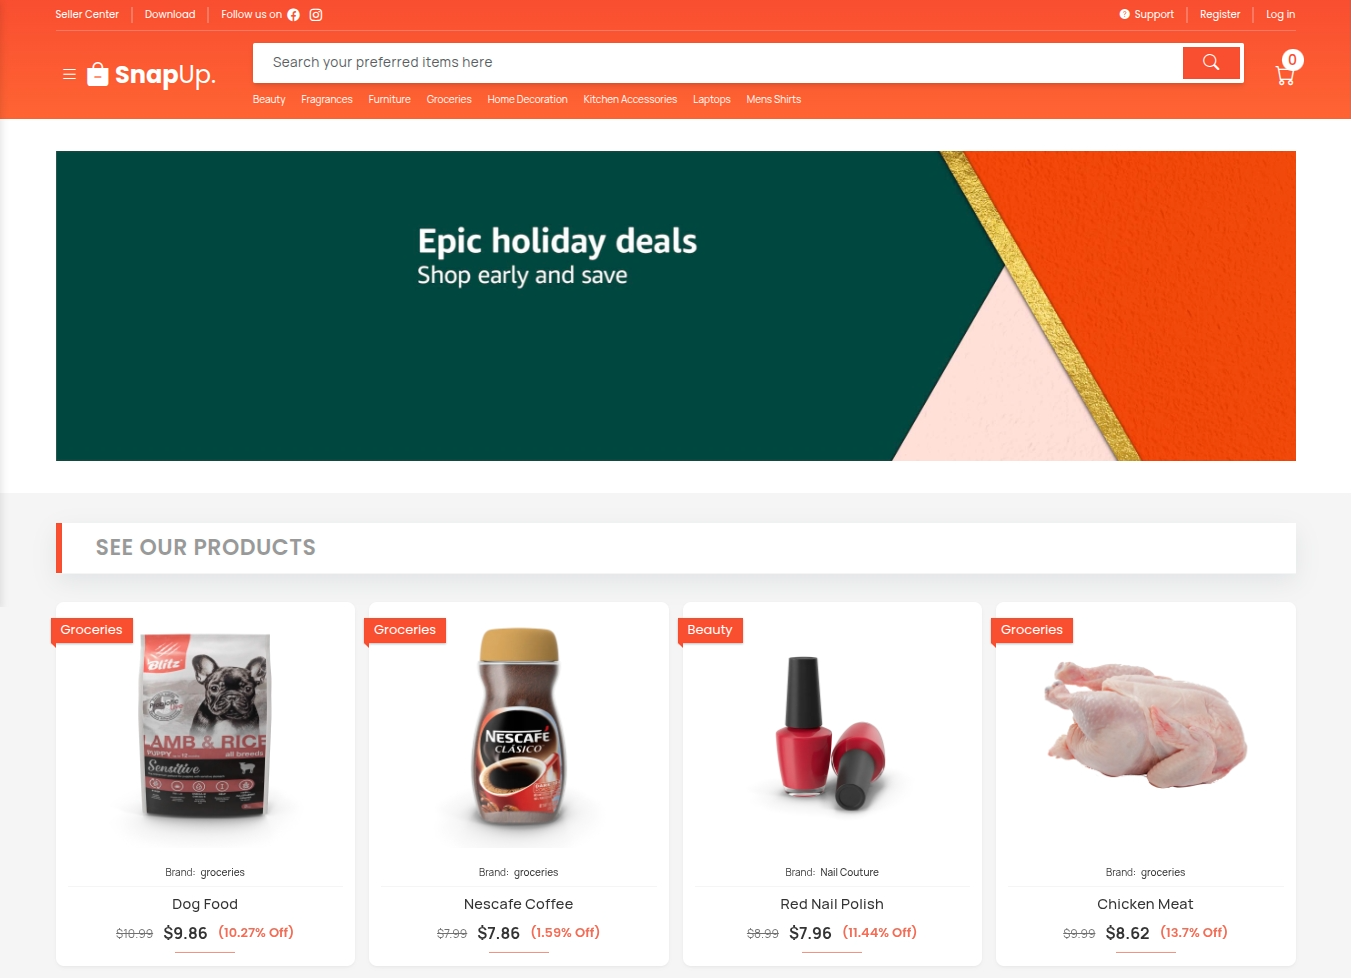
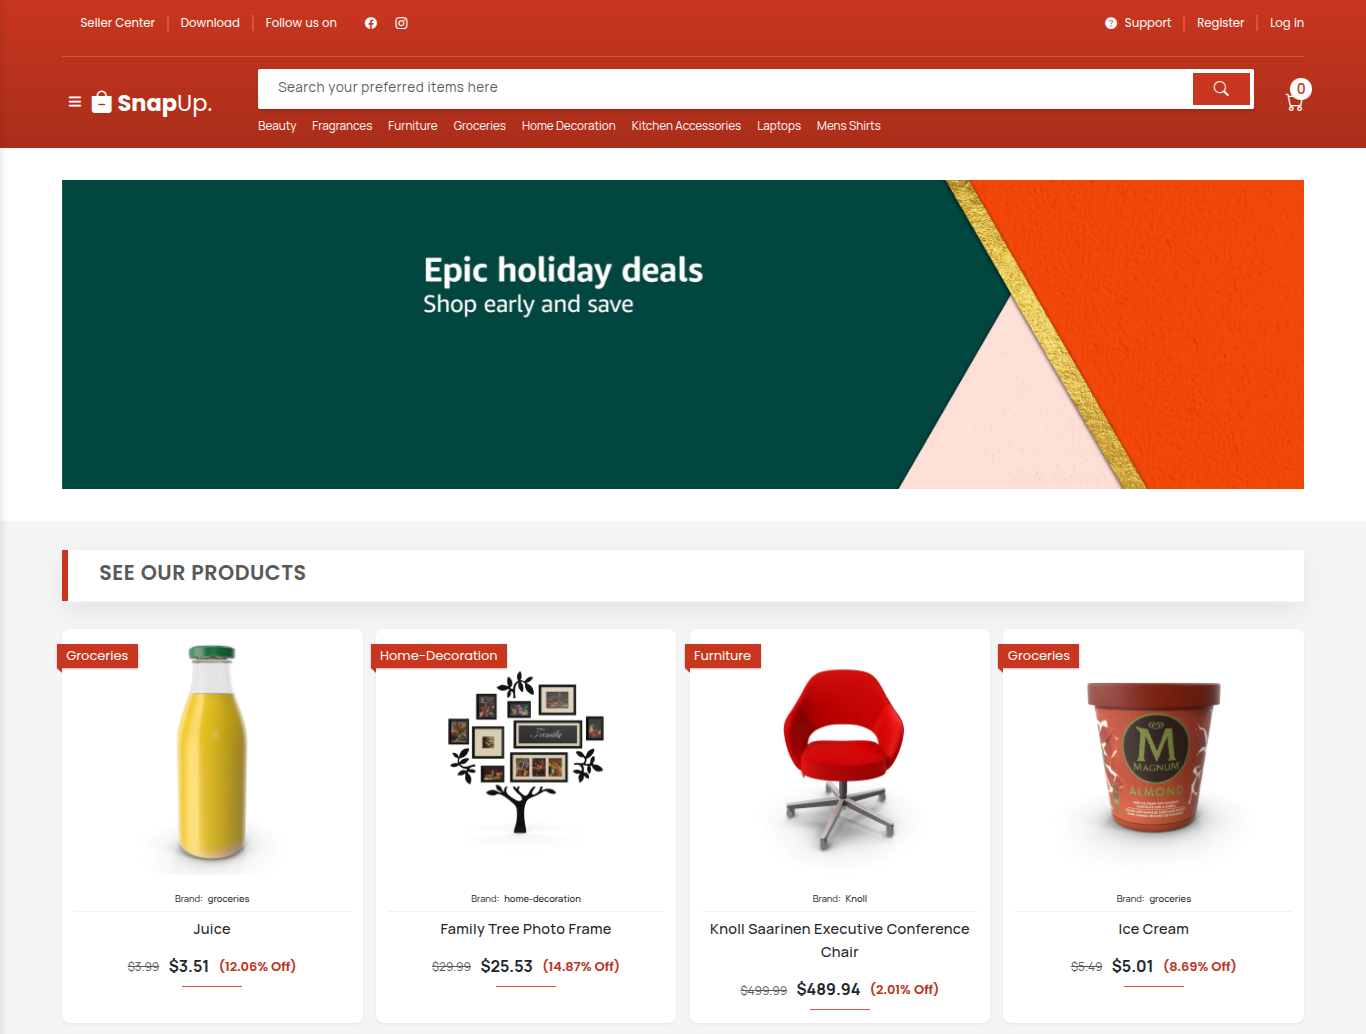
update wiki web

diff --git a/web/README.md b/web/README.md
@@ -8,14 +8,14 @@ the browser.
 
 ## Screenshot
 
-![SnapUp web application](https://github.com/user-attachments/assets/e1bb3c59-01b8-447f-bd73-b67a4763fa1d)
+![SnapUp web application](public/snapup-ecommece-screenshot.png)
 
 ## Run the web app
 
 From this directory:
 
 ```bash
-bun install --frozen-lockfile
+bun install
 bun run dev
 ```
 

diff --git a/README.md b/README.md
@@ -17,7 +17,7 @@ browser storage for the cart.
 
 ```bash
 cd web
-bun install --frozen-lockfile
+bun install
 bun run dev
 ```
 
@@ -41,4 +41,3 @@ Each application maintains its own detailed documentation:
 
 - [Web wiki](web/wiki/README.md)
 - [Mobile wiki](mobile/wiki/README.md)
-
